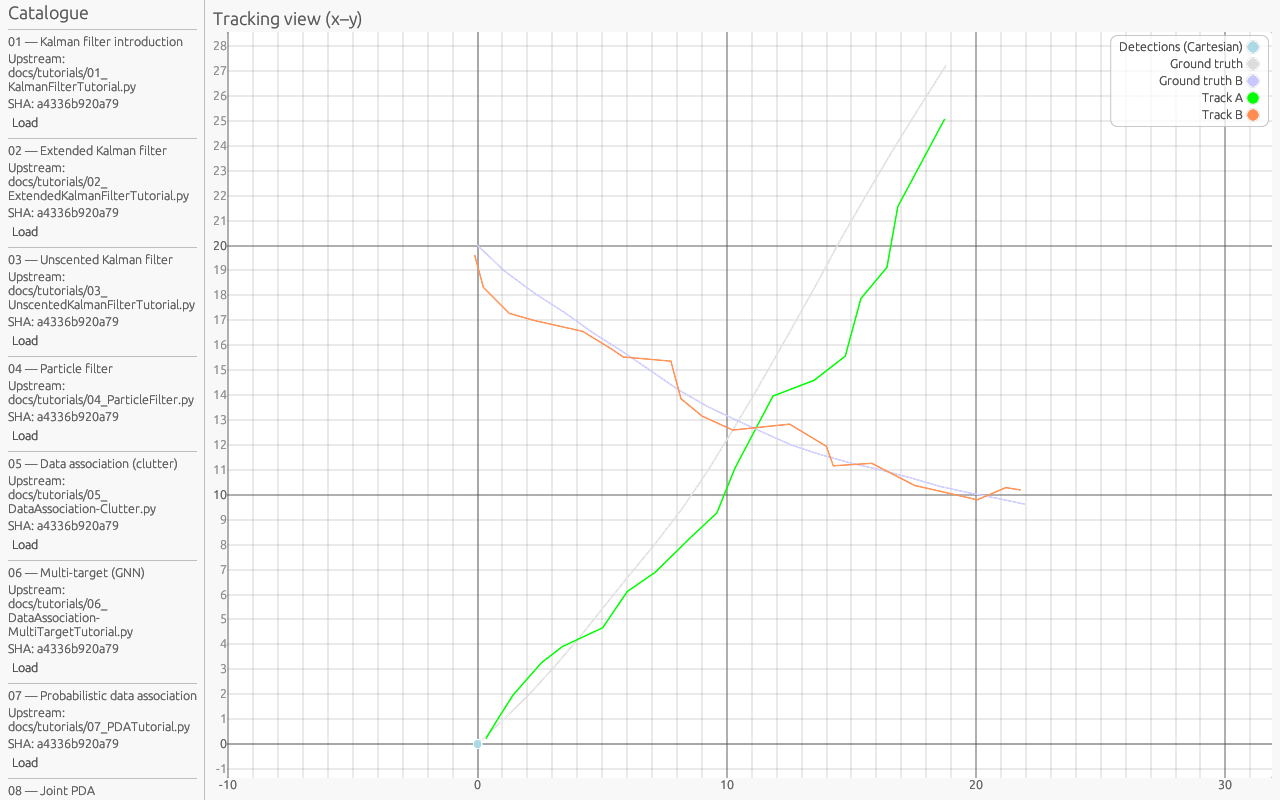
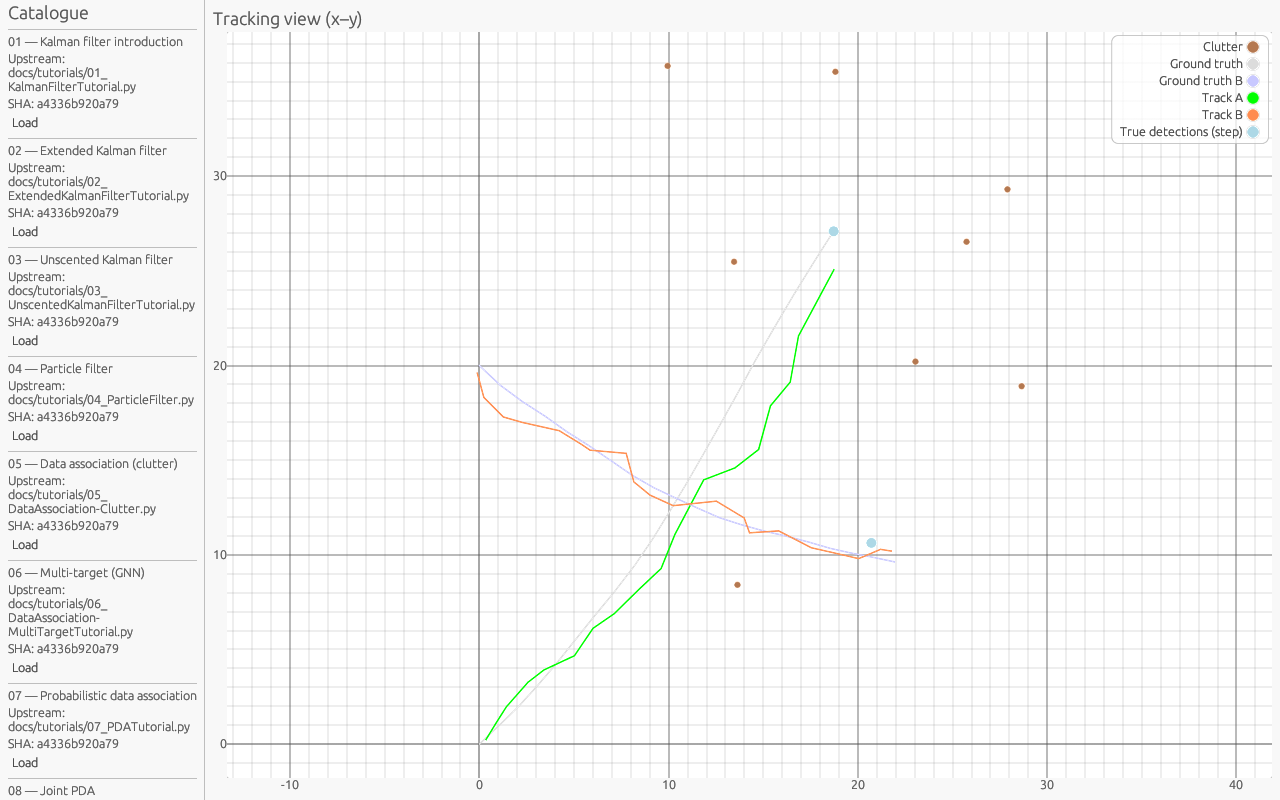
docs: add WASM screenshots for tutorials 09–11
Extend capture script to catalogue tutorials 01–11; regenerate PNGs
including new Lot 4–5 final states.

diff --git a/tools/scripts/capture_wasm_tutorial_screenshots.py b/tools/scripts/capture_wasm_tutorial_screenshots.py
@@ -1,5 +1,5 @@
 #!/usr/bin/env python3
-"""Capture WASM viewer final-state PNGs for tutorials 01–08."""
+"""Capture WASM viewer final-state PNGs for catalogue tutorials 01–11."""
 from __future__ import annotations
 
 import os
@@ -37,7 +37,19 @@ def main() -> int:
 
         with sync_playwright() as p:
             browser = p.chromium.launch(headless=True)
-            for code in ("01", "02", "03", "04", "05", "06", "07", "08"):
+            for code in (
+                "01",
+                "02",
+                "03",
+                "04",
+                "05",
+                "06",
+                "07",
+                "08",
+                "09",
+                "10",
+                "11",
+            ):
                 page = browser.new_page(viewport={"width": 1280, "height": 800})
                 url = f"http://127.0.0.1:{port}/?tutorial={code}&finish=1"
                 page.goto(url, wait_until="networkidle", timeout=120_000)

diff --git a/screenshot/wasm/README.md b/screenshot/wasm/README.md
@@ -12,6 +12,9 @@ PNG captures of the **Stone Soup Rust** egui viewer (`apps/stonesoup-viewer`) ru
 | `tutorial_06.png` | 06 — Multi-target (GNN) |
 | `tutorial_07.png` | 07 — Probabilistic data association |
 | `tutorial_08.png` | 08 — Joint PDA |
+| `tutorial_09.png` | 09 — Initiators & deleters |
+| `tutorial_10.png` | 10 — Simulation & tracking stack |
+| `tutorial_11.png` | Sampling — Particle resamplers |
 
 ## Regenerate
 
@@ -29,6 +32,7 @@ Open a tutorial and run to the final step in one load:
 
 ```text
 http://localhost:8080/?tutorial=05&finish=1
+http://localhost:8080/?tutorial=11&finish=1
 ```
 
 When stepping completes, the page title becomes `stonesoup-viewer-ready` (for automation).

diff --git a/README.md b/README.md
@@ -35,7 +35,7 @@ cargo run -p stonesoup-viewer --release --locked
 # WASM viewer (from app dir; unset NO_COLOR if Trunk errors)
 cd apps/stonesoup-viewer && unset NO_COLOR && trunk build --release
 
-Final-state UI captures (tutorials 01–08): see [screenshot/wasm/](screenshot/wasm/README.md). Regenerate with `bash tools/scripts/capture_wasm_tutorial_screenshots.sh`.
+Final-state UI captures (tutorials 01–11): see [screenshot/wasm/](screenshot/wasm/README.md). Regenerate with `bash tools/scripts/capture_wasm_tutorial_screenshots.sh`.
 
 # No-panic harness (see docs/NO_PANIC.md)
 cargo run --manifest-path verification/no-panic-harness/Cargo.toml --profile no-panic-test --locked
